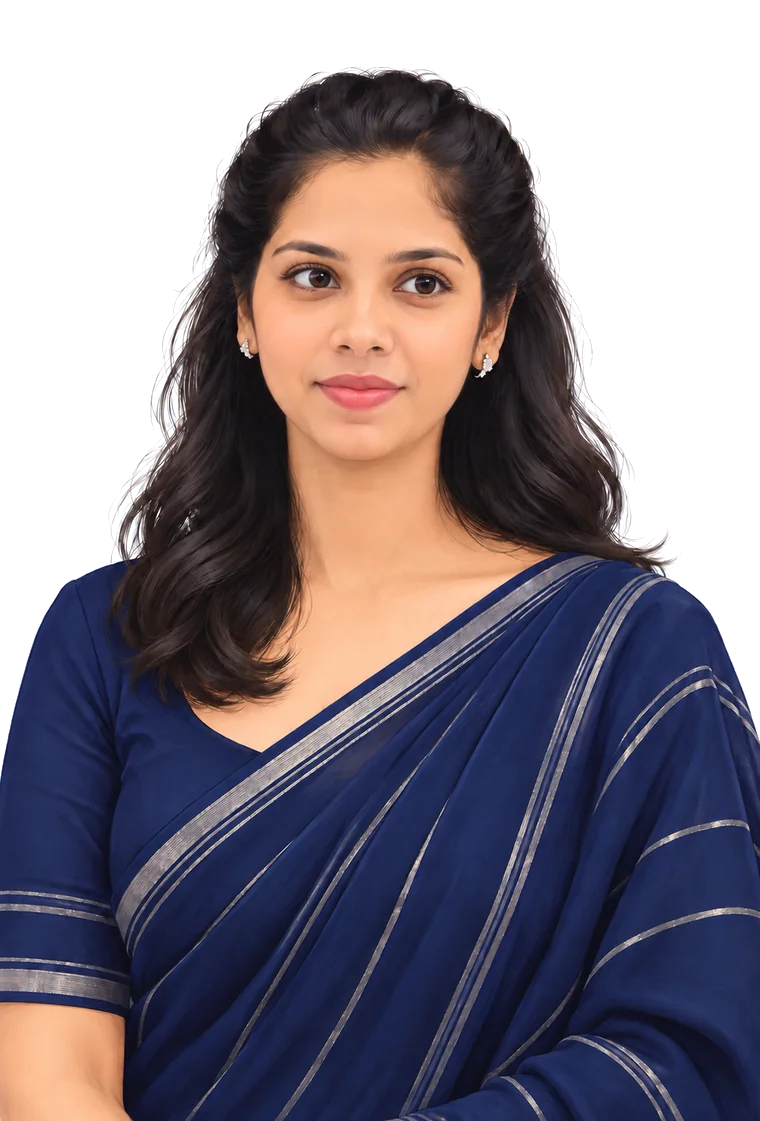
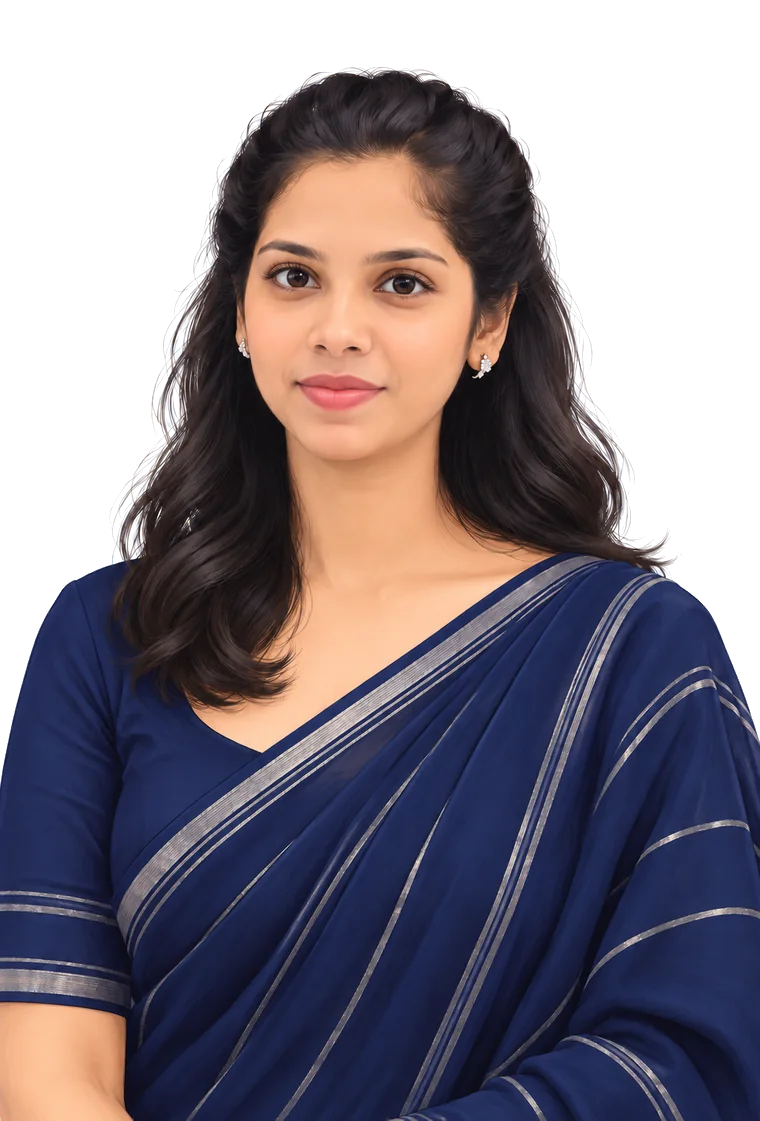
Add two Codex gap-filler frames to the head turn
Of four new candidates, keep left-middle (measured -0.59, between 07 and
13) and front-to-right (+0.41, between 22 and 24): both match the front
face and fill real gaps. Skip left-outer (same angle as 07) and
stronger-right (a big jump past 31, like the old frame 32). Right-side
positions are re-measured against 31 on one consistent scale.

diff --git a/tools/cutout_frames.py b/tools/cutout_frames.py
@@ -10,8 +10,9 @@ saree in colour. So no ML model is needed:
      (eye whites, silver stripes, earrings) are never punched out.
   4. Pull the leftover blue tint out of semi-transparent edge pixels (decontamination).
 
-Reads the frames listed in assets/turn/frames.json ("source_frames") from the Codex folder and
-writes assets/turn/000.webp ... plus front.webp, with transparency.
+Reads the frames listed in assets/turn/frames.json ("source_frames": a number is a frame from the
+Codex folder, a file name is an extra frame in assets/src/turn-extra/) and writes
+assets/turn/000.webp ... plus front.webp, with transparency.
 
 Usage (from the repo root):
     python tools/cutout_frames.py "C:\\path\\to\\navy-turn"
@@ -28,6 +29,7 @@ from PIL import Image
 
 ROOT = Path(__file__).resolve().parent.parent
 TURN = ROOT / "assets" / "turn"
+EXTRA = ROOT / "assets" / "src" / "turn-extra"
 WIDTH = 760
 
 # colour distance (0-255 RGB space) below LO is pure background, above HI is pure subject
@@ -129,12 +131,14 @@ def main() -> None:
     meta = json.loads((TURN / "frames.json").read_text(encoding="utf-8"))
     frames = []
     for n, i in enumerate(meta["source_frames"]):
-        im = cutout(Image.open(args.source / f"{i:03d}.png"))
+        # a number is a frame of the original Codex set; a name is an extra frame kept in assets/src/turn-extra/
+        path = args.source / f"{i:03d}.png" if isinstance(i, int) else EXTRA / i
+        im = cutout(Image.open(path))
         im.save(TURN / f"{n:03d}.webp", "WEBP", quality=84, alpha_quality=90, method=6)
         if n == meta["front"]:
             im.save(TURN / "front.webp", "WEBP", quality=84, alpha_quality=90, method=6)
         frames.append(im)
-        print(f"{n:03d}.webp  <- codex {i:02d}  {(TURN / f'{n:03d}.webp').stat().st_size // 1024} KB")
+        print(f"{n:03d}.webp  <- {path.name}  {(TURN / f'{n:03d}.webp').stat().st_size // 1024} KB")
 
     if args.preview:
         tw = 260; th = round(frames[0].height * tw / frames[0].width)

diff --git a/README.md b/README.md
@@ -30,9 +30,9 @@ Crop boxes are at the top of the script if a new photo needs reframing.
 
 ## Head turn
 
-The hero scrubs through 10 illustrated frames in `assets/turn/` (`000.webp … 009.webp`) as the cursor moves, or as you swipe on a phone. `frames.json` holds the count, the straight-on frame (`front`: 5) and each frame's head angle (`positions`, -1 left … +1 right). `front.webp` is shown before the script loads.
+The hero scrubs through 12 illustrated frames in `assets/turn/` (`000.webp … 011.webp`) as the cursor moves, or as you swipe on a phone. `frames.json` holds the count, the straight-on frame (`front`: 6) and each frame's head angle (`positions`, -1 left … +1 right). `front.webp` is shown before the script loads.
 
-The frames come from a 33-frame Codex set (2026-10-09, navy saree), converted from 1033×1523 PNG to 760 px WebP. Only 10 were kept (`source_frames` in `frames.json` lists the original numbers). The rest were dropped because 14 of them repeated the same strong left turn with slightly different faces, several front and right views were near-duplicates (24–28 are all about the same angle), and the last frame (32) has a different, longer face. The `positions` come from measuring how far each frame's face has moved from the front frame toward the far-left/far-right one, not from even spacing.
+The frames come from a 33-frame Codex set (2026-10-09, navy saree), converted from 1033×1523 PNG to 760 px WebP. Only 10 were kept, plus 2 later Codex gap-fillers stored in `assets/src/turn-extra/` (`source_frames` in `frames.json` lists the original numbers and the extra file names). Of the four gap-fillers Codex offered, `left-outer` repeated frame 07's angle and `stronger-right` jumped too far past 31, so both were left out. The rest were dropped because 14 of them repeated the same strong left turn with slightly different faces, several front and right views were near-duplicates (24–28 are all about the same angle), and the last frame (32) has a different, longer face. The `positions` come from measuring how far each frame's face has moved from the front frame toward the far-left/far-right one, not from even spacing.
 
 The frames are transparent cutouts, so the giant name shows behind her. `tools/cutout_frames.py` keys out the plain studio backdrop by colour; there's no ML model, just numpy and Pillow. It also clears the light glow the generator drew around her hair, which otherwise shows as a white halo over the dark name. It reads the frames listed in `frames.json` (`source_frames`) from the Codex folder:
 
